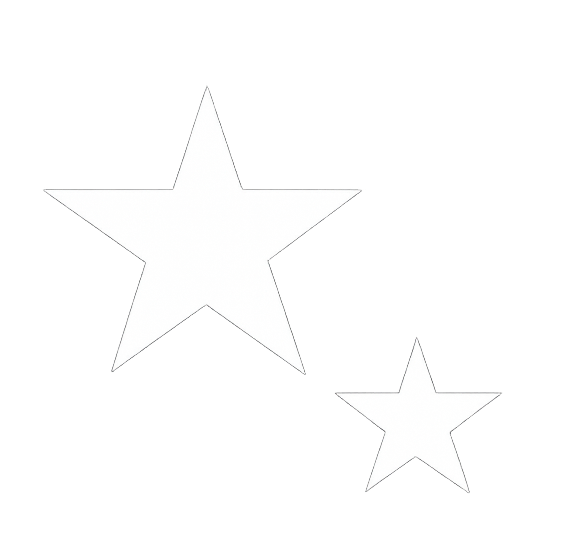
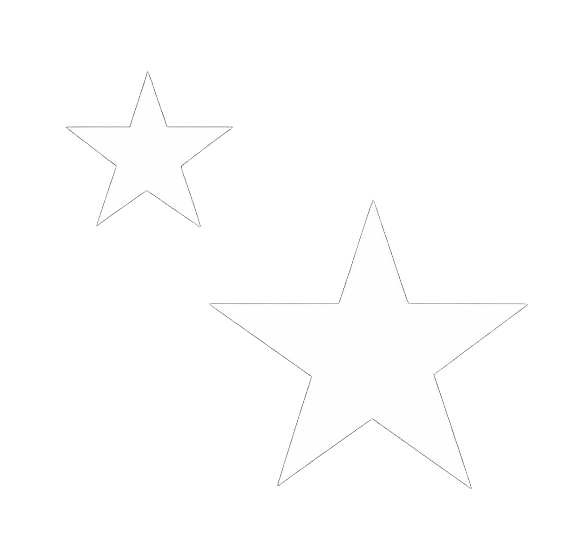
Presentation Web ( gsap integrated for flag loading on screen idea, hero animation when loading in (still needs work), and for the animate on scroll)

diff --git a/src/Animations/gsapAnimations.js b/src/Animations/gsapAnimations.js
@@ -1,0 +1,83 @@
+import gsap from "gsap"
+import { ScrollTrigger } from "gsap/ScrollTrigger"
+
+
+gsap.registerPlugin(ScrollTrigger)
+
+export function animateIntro(introEl, stripeEl, starsEl, onComplete) {
+  const tl = gsap.timeline({ onComplete })
+
+
+  tl.from(introEl, {
+    opacity: 0,
+    duration: 0.6,
+    ease: "power2.out"
+  })
+
+
+  .to(stripeEl, {
+    scaleY: 0,
+    duration: 0.5,
+    ease: "power2.inOut"
+  })
+
+
+  .to(starsEl, {
+    top: "15.5rem",
+    left: "17.3rem",
+    scale: 0.16,
+    duration: 1.4,
+    ease: "power3.inOut"
+  }, "-=0.2")
+
+
+  .to(introEl, {
+    opacity: 0,
+    duration: 0.8,
+    ease: "power2.inOut"
+  }, "-=0.5")
+
+  return tl
+}
+
+export function animateHero(badgeEl, headingEl, subEl) {
+  const tl = gsap.timeline({ delay: 0.3 })
+
+  tl.from(badgeEl, {
+    opacity: 0,
+    y: -20,
+    duration: 0.6,
+    ease: "power2.out"
+  })
+
+  .from(headingEl, {
+    opacity: 0,
+    y: 80,
+    duration: 0.9,
+    ease: "power3.out"
+  }, "-=0.3")
+
+  .from(subEl, {
+    opacity: 0,
+    y: 20,
+    duration: 0.7,
+    ease: "power2.out"
+  }, "-=0.4")
+
+  return tl
+}
+
+export function animateOnScroll(selector, trigger) {
+  gsap.from(selector, {
+    opacity: 0,
+    y: 40,
+    duration: 0.7,
+    stagger: 0.1,
+    ease: "power2.out",
+    scrollTrigger: {
+        trigger: trigger,
+        start: "top 80%",
+        end: "top 50%",  // Add this
+}
+  })
+}

diff --git a/src/Sections/RoadToTheWorldCup.jsx b/src/Sections/RoadToTheWorldCup.jsx
@@ -1,24 +1,31 @@
+import { useEffect } from "react"
 import "./RoadToTheWorldCup.css"
+import { animateOnScroll } from "../animations/gsapAnimations"
 
 const matches = [
-  { opponent: "Barbados",          flag: "🇧🇧", result: "4 – 1", stage: "Round 2" },
-  { opponent: "Aruba",             flag: "🇦🇼", result: "2 – 0", stage: "Round 2" },
-  { opponent: "Saint Lucia",       flag: "🇱🇨", result: "4 – 0", stage: "Round 2" },
-  { opponent: "Haiti",             flag: "🇭🇹", result: "5 – 1", stage: "Round 2" },
-  { opponent: "Jamaica",           flag: "🇯🇲", result: "2 – 0", stage: "Round 3" },
-  { opponent: "Trinidad & Tobago", flag: "🇹🇹", result: "1 – 1", stage: "Round 3" },
-  { opponent: "Bermuda",           flag: "🇧🇲", result: "7 – 0", stage: "Round 3" },
-  { opponent: "Jamaica (away)",    flag: "🇯🇲", result: "0 – 0 ✓", stage: "QUALIFIED", qualified: true },
+  { opponent: "Barbados",           result: "4 – 1", stage: "Round 2" },
+  { opponent: "Aruba",              result: "2 – 0", stage: "Round 2" },
+  { opponent: "Saint Lucia",        result: "4 – 0", stage: "Round 2" },
+  { opponent: "Haiti",              result: "5 – 1", stage: "Round 2" },
+  { opponent: "Jamaica",            result: "2 – 0", stage: "Round 3" },
+  { opponent: "Trinidad & Tobago",  result: "1 – 1", stage: "Round 3" },
+  { opponent: "Bermuda",            result: "7 – 0", stage: "Round 3" },
+  { opponent: "Jamaica (away)",     result: "0 – 0 ✓", stage: "QUALIFIED", qualified: true },
 ]
 
 const stats = [
-  { label: "Goals Scored",           value: "28" },
-  { label: "Expected Goals",         value: "22.9" },
-  { label: "Avg Possession",         value: "62.1%" },
-  { label: "Goals from Open Play",   value: "23/29" },
+  { label: "Goals Scored",          value: "28" },
+  { label: "Expected Goals",        value: "22.9" },
+  { label: "Avg Possession",        value: "62.1%" },
+  { label: "Goals from Open Play",  value: "23/29" },
 ]
 
 export default function RoadToTheWorldCup() {
+  useEffect(() => {
+    animateOnScroll(".road__match", ".road__matches")
+    animateOnScroll(".road__stat", ".road__stats")
+  }, [])
+
   return (
     <section className="road" id="journey">
       <div className="road__inner">
@@ -28,14 +35,16 @@ export default function RoadToTheWorldCup() {
           {matches.map((m, i) => (
             <div className={`road__match ${m.qualified ? "road__match--final" : ""}`} key={i}>
               <span className="road__stage">{m.stage}</span>
-              <span className="road__opponent">{m.flag} {m.opponent}</span>
+              <span className="road__opponent">{m.opponent}</span>
               <span className="road__result">{m.result}</span>
             </div>
           ))}
         </div>
 
         <div className="road__stats">
-          <p className="road__stats-label">During the full qualifying campaign, Curaçao was <strong>UNDEFEATED</strong></p>
+          <p className="road__stats-label">
+            During the full qualifying campaign, Curaçao was <strong>UNDEFEATED</strong>
+          </p>
           <div className="road__stats-grid">
             {stats.map((s) => (
               <div className="road__stat" key={s.label}>

diff --git a/src/Components/Intro.jsx b/src/Components/Intro.jsx
@@ -1,0 +1,31 @@
+import { useEffect, useRef } from "react"
+import "./Intro.css"
+import stars from "../assets/Stars.png"
+import { animateIntro } from "../animations/gsapAnimations"
+
+export default function Intro({ onComplete }) {
+  const introRef = useRef(null)
+  const stripeRef = useRef(null)
+  const starsRef = useRef(null)
+
+  useEffect(() => {
+    animateIntro(
+      introRef.current,
+      stripeRef.current,
+      starsRef.current,
+      onComplete
+    )
+  }, [])
+
+  return (
+    <div ref={introRef} className="intro">
+      <img
+        ref={starsRef}
+        src={stars}
+        alt="Curaçao flag stars"
+        className="intro__stars"
+      />
+      <div ref={stripeRef} className="intro__stripe" />
+    </div>
+  )
+}

diff --git a/src/Components/intro.css b/src/Components/intro.css
@@ -1,0 +1,29 @@
+.intro {
+  position: fixed;
+  inset: 0;
+  z-index: 9999;
+  background-color: rgb(0, 43, 127);
+  display: flex;
+  align-items: center;
+  justify-content: center;
+  pointer-events: none;
+}
+
+.intro__stars {
+  position: absolute;
+  top: 20%;
+  left: 12%;
+  transform: translate(-50%, -50%);
+  width: 25vw;
+  transform-origin: top left;
+}
+
+.intro__stripe {
+  position: absolute;
+  top: 70%;
+  left: 0;
+  right: 0;
+  height: 11%;
+  background-color: var(--yellow);
+  transform-origin: center;
+}

diff --git a/src/Sections/Hero.jsx b/src/Sections/Hero.jsx
@@ -1,8 +1,22 @@
+import { useEffect, useRef } from "react"
 import "./Hero.css"
 import heroVideo from "../assets/editforsite.mp4"
 import heroPoster from "../assets/HeroPoster.png"
+import { animateHero } from "../animations/gsapAnimations"
 
 export default function Hero() {
+  const badgeRef = useRef(null)
+  const headingRef = useRef(null)
+  const subRef = useRef(null)
+
+  useEffect(() => {
+    animateHero(
+      badgeRef.current,
+      headingRef.current,
+      subRef.current
+    )
+  }, [])
+
   return (
     <section className="hero" id="hero">
       <video className="hero__video" autoPlay muted loop playsInline poster={heroPoster}>
@@ -10,9 +24,11 @@ export default function Hero() {
       </video>
       <div className="hero__overlay" />
       <div className="hero__content">
-        <div className="hero__badge">FIFA World Cup 2026 · Group E</div>
-        <h1 className="hero__heading">CURAÇAO<br />MAKES HISTORY</h1>
-        <p className="hero__sub">The smallest nation ever to qualify for a FIFA World Cup. 150,000 people. One dream.</p>
+        <div ref={badgeRef} className="hero__badge">FIFA World Cup 2026 · Group E</div>
+        <h1 ref={headingRef} className="hero__heading">CURAÇAO<br />MAKES HISTORY</h1>
+        <p ref={subRef} className="hero__sub">
+          The smallest nation ever to qualify for a FIFA World Cup. 150,000 people. One dream.
+        </p>
       </div>
       <div className="hero__scroll">
         <span className="hero__scroll-text">Scroll</span>

diff --git a/src/App.jsx b/src/App.jsx
@@ -4,10 +4,19 @@ import TeamHistory from "./Sections/TeamHistory.jsx"
 import RoadToTheWorldCup from "./Sections/RoadToTheWorldCup.jsx"
 import TheSquad from "./Sections/TheSquad.jsx"
 import Navbar from "./Components/Navbar.jsx"
+import Intro from "./components/Intro.jsx"
+import { useState } from "react"
+
 
 function App() {
+  const [introComplete, setIntroComplete] = useState(false)
+ 
   return (
     <>
+      {!introComplete && (
+        <Intro onComplete={() => setIntroComplete(true)} />
+      )}
+ 
       <Navbar />
       <Hero />
       <WhereIsCuracao />
@@ -17,5 +26,5 @@ function App() {
     </>
   )
 }
-
+ 
 export default App

diff --git a/src/Sections/Hero.css b/src/Sections/Hero.css
@@ -15,14 +15,15 @@
   width: 100%;
   height: 100%;
   object-fit: cover;
-  z-index: 2;
+  z-index: 1;
+  filter: brightness(0.8);
 }
 
 .hero__overlay {
   position: absolute;
   inset: 0;
-  background-color: rgba(0, 26, 77, 0.65);
-  z-index: 1;
+  background-color: rgba(0, 26, 77, 0.2);
+  z-index: 2;
 }
 
 .hero__content {

diff --git a/src/Main.jsx b/src/Main.jsx
@@ -4,8 +4,5 @@ import "./styles/GlobalStyling.css"
 import App from "./App.jsx"
  
 createRoot(document.getElementById("root")).render(
-  <StrictMode>
-    <App />
-  </StrictMode>
+  <App />
 )
- 

diff --git a/src/Sections/TheSquad.jsx b/src/Sections/TheSquad.jsx
@@ -1,7 +1,7 @@
 import "./TheSquad.css"
 
 const coach = {
-  name: "Fred Rutten",
+  name: "Dick Advocaat",
   role: "Head Coach",
   club: "–",
   image: "/assets/players/coach.jpg",

diff --git a/src/Sections/WhereIsCuracao.jsx b/src/Sections/WhereIsCuracao.jsx
@@ -24,7 +24,7 @@ export default function WhereIsCuracao() {
               <li><span className="where__label">Highest point</span>Christoffelberg at 372 meters</li>
             </ul>
             <p className="where__outro">
-              Culturally, Curaçao is one of the most diverse places on Earth — home to over 50 nationalities, with influences from Africa, Europe, South America, and beyond, all reflected in the colorful buildings of the UNESCO World Heritage capital Willemstad.
+              Culturally, Curaçao is one of the most diverse places on Earth home to over 50 nationalities, with influences from Africa, Europe, South America, and beyond, all reflected in the colorful buildings of the UNESCO World Heritage capital Willemstad.
             </p>
           </div>
         </div>

diff --git a/src/Components/Navbar.css b/src/Components/Navbar.css
@@ -8,6 +8,7 @@
   align-items: center;
   justify-content: space-between;
   padding: 1.2rem 2.5rem;
+  background: linear-gradient(to bottom, rgba(0,0,0,0.6), transparent);
 }
 
 .nav__stars {